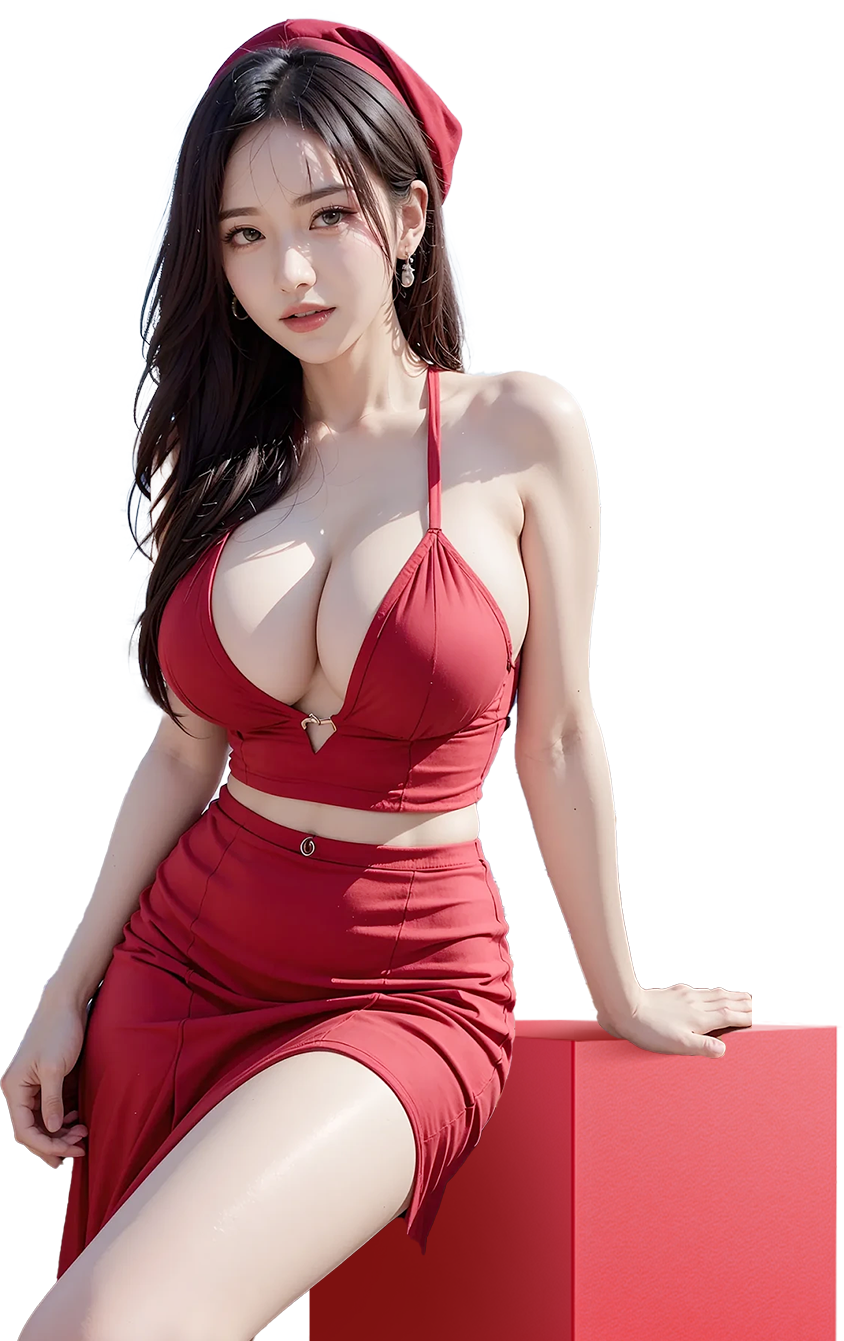
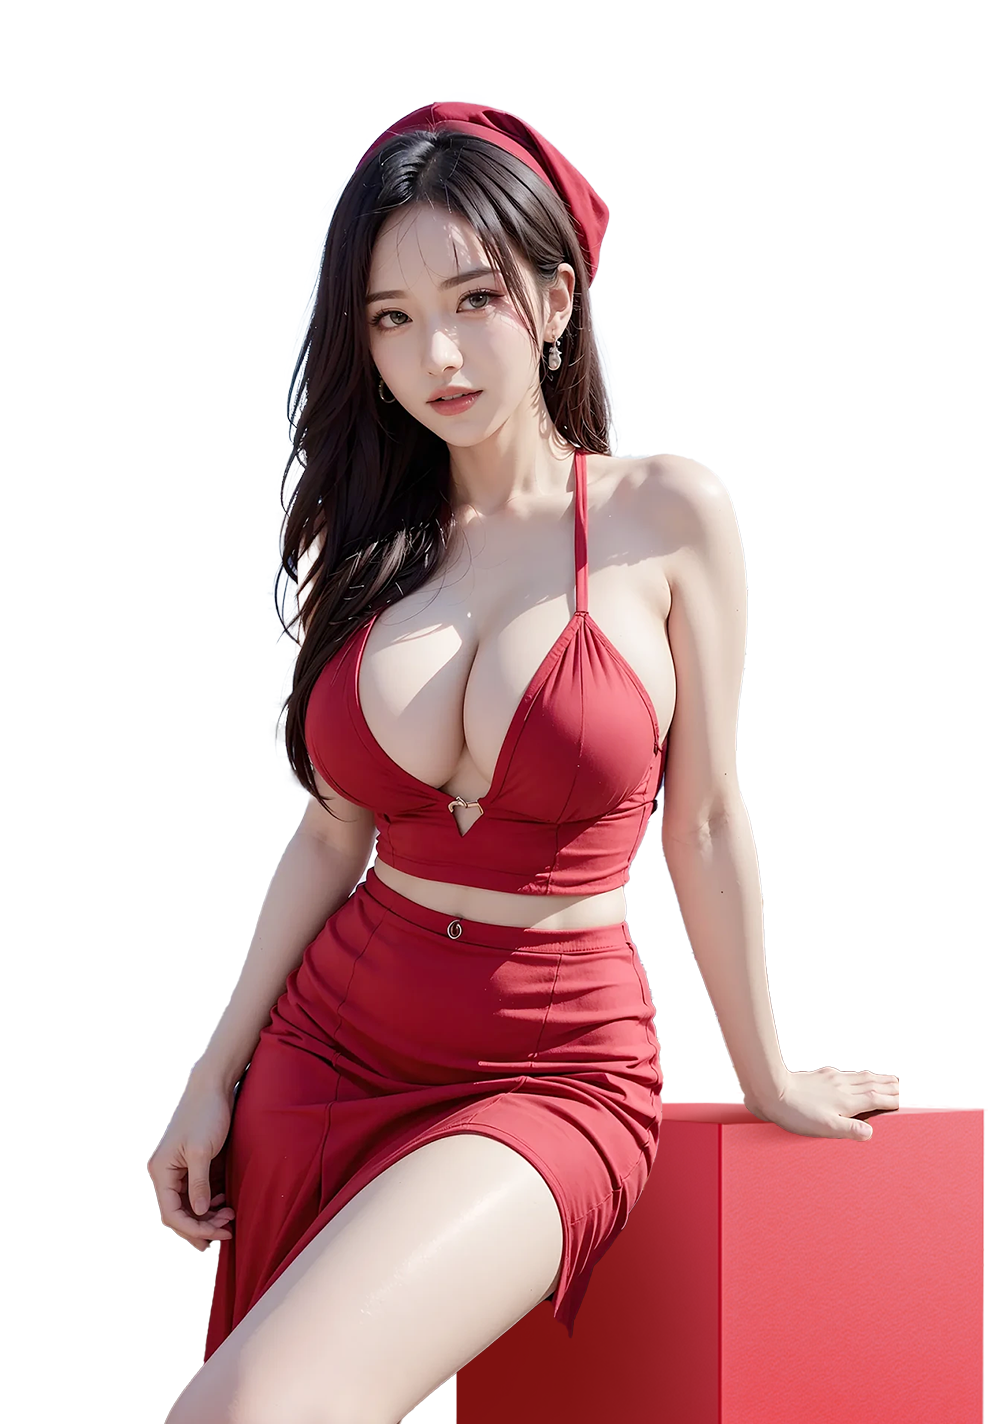
换人ui调整
git-svn-id: svn://ci.ftxgame.local:8199/repos/ArmChairQuatebackDoc/sourcecode/arm_chair_quaterback@646735 11eda05a-b276-4d74-a309-1d70aa31e1c1

diff --git a/lib/pages/team/team_index/open_box/big_player_card.dart b/lib/pages/team/team_index/open_box/big_player_card.dart
@@ -2,7 +2,7 @@
  * @Description: 
  * @Author: lihonghao
  * @Date: 2024-12-18 14:27:59
- * @LastEditTime: 2025-01-07 17:13:00
+ * @LastEditTime: 2025-01-10 18:40:38
  */
 import 'package:arm_chair_quaterback/common/entities/player_card_entity.dart';
 import 'package:flutter/material.dart';
@@ -58,7 +58,7 @@ class BigPlayerCard extends StatelessWidget {
             child: OutlinedText(
               text: player.grade,
               textStyle:
-                  26.w4(height: 0.8, fontFamily: FontFamily.fRobotoMedium),
+                  43.w4(height: 0.8, fontFamily: FontFamily.fRobotoMedium),
             ),
           ),
           Positioned(
@@ -70,7 +70,7 @@ class BigPlayerCard extends StatelessWidget {
                   text: player.playerScore.toString(),
                   strokeWidth: 1.5.w,
                   textStyle:
-                      16.w4(height: 0.8, fontFamily: FontFamily.fOswaldRegular),
+                      20.w4(height: 0.9, fontFamily: FontFamily.fOswaldRegular),
                 ),
                 3.vGap,
                 OutlinedText(
@@ -104,7 +104,7 @@ class BigPlayerCard extends StatelessWidget {
               top: 175.w,
               child: Text(
                 player.ename.toUpperCase(),
-                style: 15.5.w4(
+                style: 18.w4(
                   // height: 0.8,
                   fontFamily: FontFamily.fOswaldBold,
                 ),

diff --git a/lib/pages/team/team_index/widgets/beauty_and_box.dart b/lib/pages/team/team_index/widgets/beauty_and_box.dart
@@ -78,6 +78,17 @@ class BeautyAndBoxView extends StatelessWidget {
                 ),
               ),
             ),
+            if (beautyCtrl.beautyIndex.value != 0)
+              Positioned(
+                top: 0.w,
+                left: 0,
+                right: 0,
+                child: Image.asset(
+                  beautyCtrl.beautyList[beautyCtrl.beautyIndex.value],
+                  fit: BoxFit.fitHeight,
+                  alignment: Alignment.topCenter,
+                ),
+              ),
             Positioned(
               top: 0.w,
               left: 0,
@@ -107,6 +118,7 @@ class BeautyAndBoxView extends StatelessWidget {
                           Image.asset(
                             beautyCtrl.beautyList[beautyCtrl.beautyIndex.value],
                             fit: BoxFit.fitHeight,
+                            height: 500.w,
                             alignment: Alignment.topCenter,
                           ),
                         ...beautyCtrl.hearts,

diff --git a/lib/pages/team/team_beauty/beauty_page.dart b/lib/pages/team/team_beauty/beauty_page.dart
@@ -2,7 +2,7 @@
  * @Description: 换人换装页面
  * @Author: lihonghao
  * @Date: 2024-10-12 17:33:59
- * @LastEditTime: 2025-01-10 17:15:21
+ * @LastEditTime: 2025-01-10 19:24:59
  */
 
 import 'dart:math';
@@ -179,13 +179,7 @@ class BeautyPage extends GetView<BeautyController> {
                           fontFamily: FontFamily.fCalcioDemo,
                           fontSize: 187.h),
                       Positioned(
-                        top: controller.expandedGirl
-                            ? 0
-                            : (controller.beautyIndex.value !=
-                                        controller.beautyList.length - 1
-                                    ? 27.5.h
-                                    : 0) +
-                                45.w,
+                        top: controller.expandedGirl ? 0 : 45.w,
                         bottom: controller.expandedGirl ? 0 : 150.h,
                         child: InkWell(
                           onTap: () {

diff --git a/lib/pages/team/team_index/widgets/battle_box_widget.dart b/lib/pages/team/team_index/widgets/battle_box_widget.dart
@@ -54,8 +54,10 @@ class BattleBoxWidget extends GetView<TeamIndexController> {
                                   children: [
                                     IconWidget(
                                       iconWidth: 5.w,
-                                      icon: Assets.iconUiIconShrink,
+                                      icon:
+                                          Assets.commonUiCommonIconSystemArrow,
                                       iconColor: AppColors.c000000,
+                                      // rotateAngle: ,
                                     ),
                                     3.vGap,
                                     Text(

diff --git a/lib/common/routers/pages.dart b/lib/common/routers/pages.dart
@@ -2,7 +2,7 @@
  * @Description: 
  * @Author: lihonghao
  * @Date: 2024-09-28 20:33:28
- * @LastEditTime: 2025-01-10 14:13:12
+ * @LastEditTime: 2025-01-10 19:44:41
  */
 // import 'package:arm_chair_quaterback/pages/news/new_detail/bindings.dart';
 // import 'package:arm_chair_quaterback/pages/news/new_detail/view.dart';
@@ -179,6 +179,7 @@ class AppPages {
       opaque: false,
       name: RouteNames.teamBeautyPage,
       page: () => const BeautyPage(),
+      // transition: Transition.fadeIn,
     ),
     GetPage(
         opaque: false,

diff --git a/lib/pages/team/team_index/open_box/animted_box.dart b/lib/pages/team/team_index/open_box/animted_box.dart
@@ -2,7 +2,7 @@
  * @Description: 
  * @Author: lihonghao
  * @Date: 2024-12-20 16:11:51
- * @LastEditTime: 2024-12-24 14:54:37
+ * @LastEditTime: 2025-01-10 18:33:24
  */
 import 'package:arm_chair_quaterback/common/net/apis/news.dart';
 import 'package:flutter/material.dart';
@@ -94,6 +94,7 @@ class _AnimatedBoxState extends State<AnimatedBox>
   Widget build(BuildContext context) {
     return GestureDetector(
       onTap: () {
+        _controller.reset();
         _controller.forward().then((v) {
           widget.onTap();
         });
